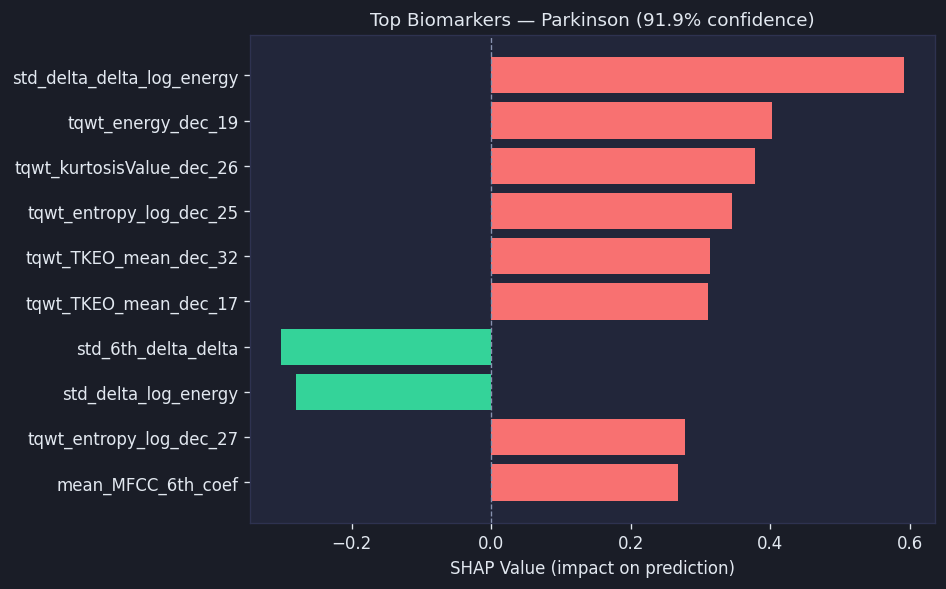
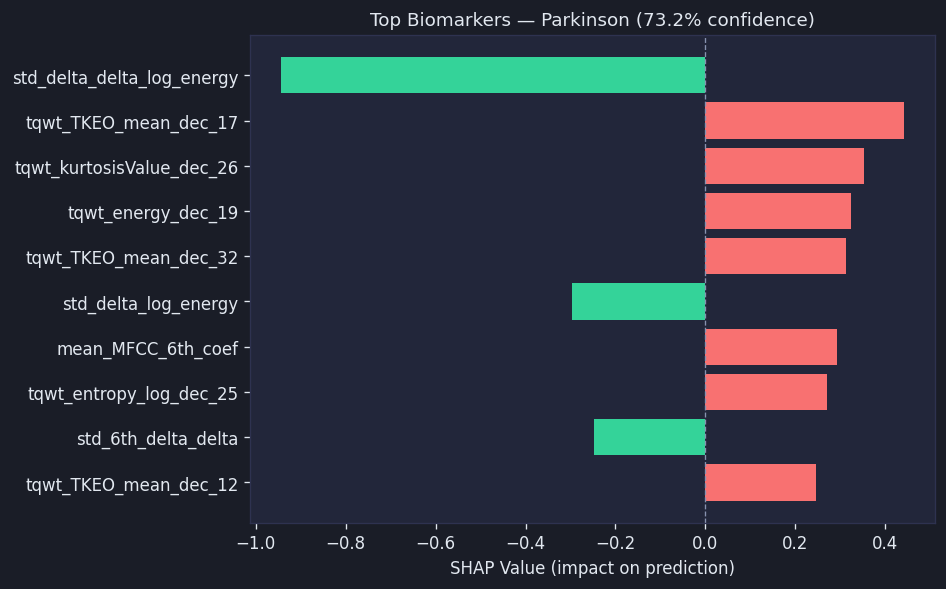
fix: add supportedInterfaces to A2A AgentCard

diff --git a/static/style.css b/static/style.css
@@ -1281,7 +1281,19 @@ body {
 .footer-disclaimer {
   margin-top: 5px;
   font-size: 0.7rem;
-  color: #3a5070;
+  color: #5d7599;
+}
+
+.footer a {
+  color: var(--accent2-color);
+  text-decoration: none;
+  font-weight: 600;
+  transition: color var(--duration-fast);
+}
+
+.footer a:hover {
+  color: var(--accent-color);
+  text-decoration: underline;
 }
 
 /* ── Utility ── */
@@ -1509,9 +1521,11 @@ body {
 .pipeline-steps {
   display: flex;
   align-items: center;
-  gap: 8px;
-  flex-wrap: wrap;
-  justify-content: center;
+  gap: 12px;
+  flex-wrap: nowrap;
+  justify-content: space-between;
+  overflow-x: auto;
+  padding-bottom: 8px;
 }
 
 .pipeline-step {
@@ -1672,11 +1686,11 @@ body {
   font-size: 0.72rem;
   color: var(--accent2-color);
   text-align: right;
-  word-break: break-all;
-  max-width: 120px;
+  flex: 1;
   overflow: hidden;
   text-overflow: ellipsis;
   white-space: nowrap;
+  margin-left: 10px;
 }
 
 /* ── Agent sections ── */

diff --git a/templates/index.html b/templates/index.html
@@ -1,4 +1,4 @@
-<!DOCTYPE html>
+<!DOCTYPE html>
 <html lang="en">
 <head>
   <meta charset="UTF-8" />
@@ -292,7 +292,7 @@
   </main>
 
   <footer class="footer">
-    <p>NeuroLynk AI · XGBoost · SHAP · FHIR R4 · FastAPI · Prompt Opinion Hackathon 2025</p>
+    <p>NeuroLynk AI · XGBoost · SHAP · FHIR R4 · FastAPI · Prompt Opinion Hackathon 2026</p>
     <p class="footer-disclaimer">Built by <a href="https://github.com/nishnarudkar" target="_blank" rel="noopener noreferrer">Nishant Narudkar</a> · For research and educational demonstration only · Not a medical diagnostic tool</p>
   </footer>
 

diff --git a/api/main.py b/api/main.py
@@ -488,6 +488,13 @@ async def agent_card(request: Request):
         ),
         "version": "1.0.0-hackathon",
         "url": base_url,
+        "supportedInterfaces": [
+            {
+                "url": base_url,
+                "protocolBinding": "HttpJson",
+                "protocolVersion": "1.0"
+            }
+        ],
         "capabilities": {
             "streaming": False,
             "pushNotifications": False,